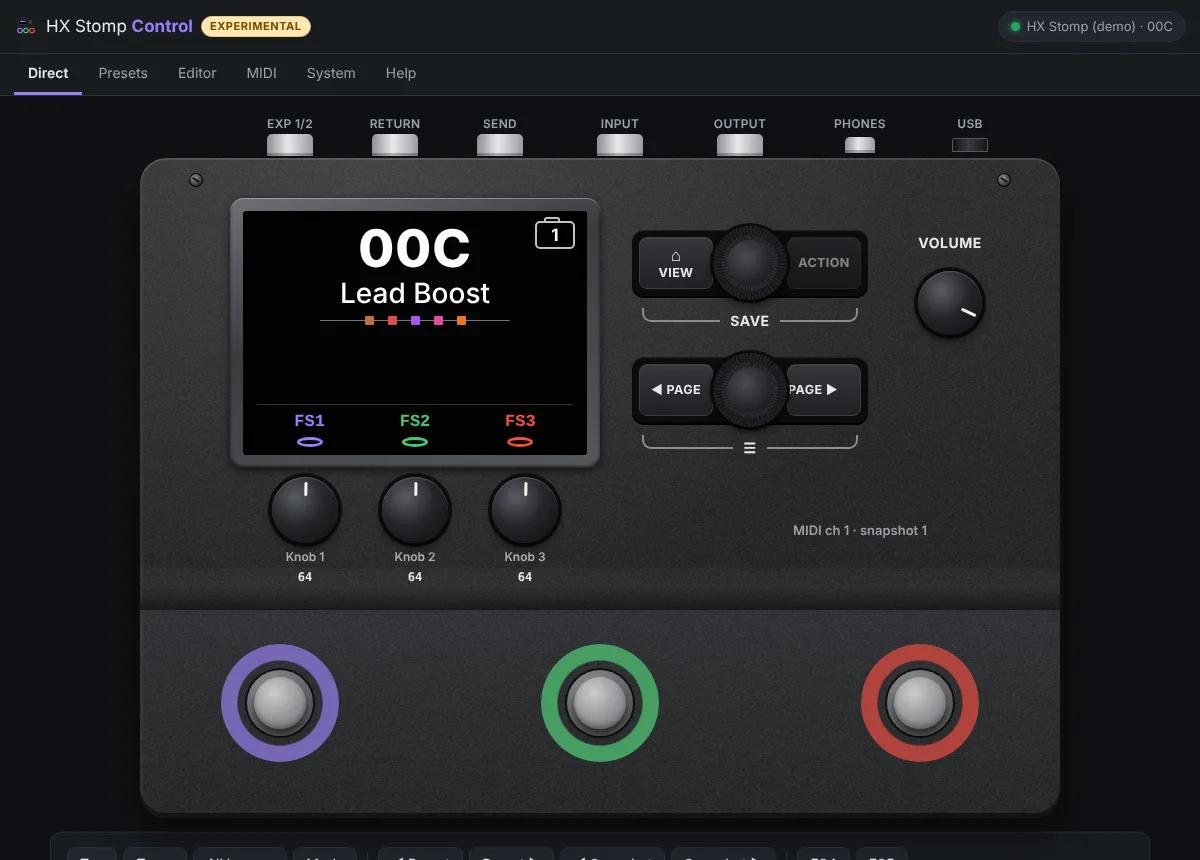
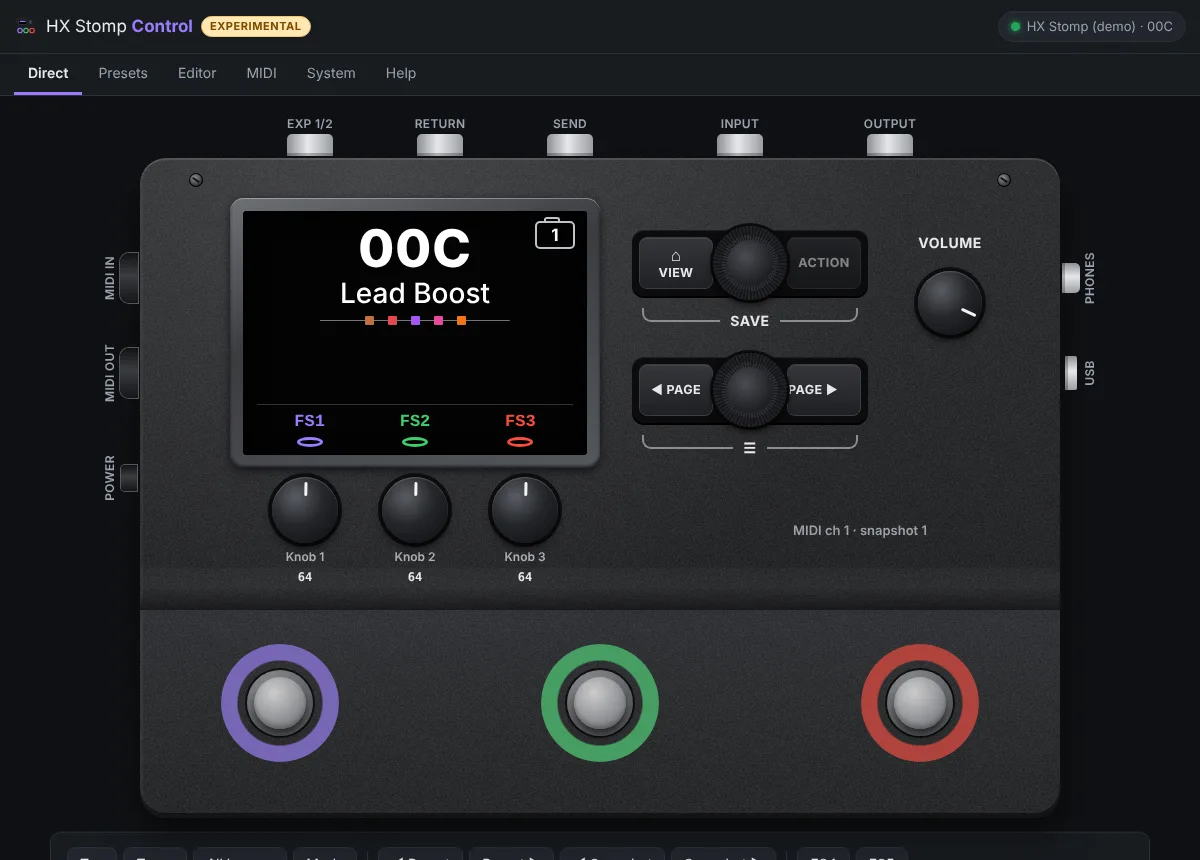
Direct mode: jacks on the sides of the pedal too (MIDI in/out, power, phones, USB)

diff --git a/web/css/style.css b/web/css/style.css
@@ -175,7 +175,7 @@ table.grid th { font-size: 12px; color: var(--muted); font-weight: 600; }
 .toast.out { opacity: 0; }
 
 /* ---------------------------------------------------------------- Direct: the pedal panel (920 × 660, scaled to fit) */
-.hxwrap { position: relative; width: 100%; max-width: 920px; margin: 0 auto 14px; }
+.hxwrap { position: relative; width: 100%; max-width: 1008px; margin: 0 auto 14px; }
 .hxpanel { position: absolute; left: 0; top: 0; width: 920px; height: 660px; transform-origin: top left; user-select: none; -webkit-user-select: none;
   border-radius: 26px; color: #e8e8ea; font-family: "Helvetica Neue", Arial, system-ui, sans-serif;
   background:
@@ -191,6 +191,12 @@ table.grid th { font-size: 12px; color: var(--muted); font-weight: 600; }
   background: linear-gradient(90deg, #8d9095, #e6e8eb 45%, #9a9da2); box-shadow: inset 0 -3px 0 rgba(0,0,0,.25); }
 .hxpanel .jack.mini { width: 30px; height: 16px; }
 .hxpanel .jack.usb { width: 34px; height: 12px; border-radius: 2px 2px 0 0; background: linear-gradient(90deg, #111214, #3a3c40 45%, #141517); box-shadow: 0 0 0 1px #55585e; }
+.hxpanel .jack.side { width: 22px; height: 46px; border-radius: 5px 0 0 5px; background: linear-gradient(180deg, #8d9095, #e6e8eb 45%, #9a9da2); box-shadow: inset 3px 0 0 rgba(0,0,0,.25); }
+.hxpanel .jack.din.side { height: 50px; width: 18px; border-radius: 9px 0 0 9px; background: linear-gradient(180deg, #111214, #3a3c40 45%, #141517); box-shadow: 0 0 0 1px #55585e; }
+.hxpanel .jack.dc.side { height: 26px; width: 16px; border-radius: 4px 0 0 4px; background: linear-gradient(180deg, #111214, #3a3c40 45%, #141517); box-shadow: 0 0 0 1px #55585e; }
+.hxpanel .jack.mini.side { height: 30px; width: 18px; border-radius: 0 5px 5px 0; }
+.hxpanel .jack.usb.side { height: 34px; width: 12px; border-radius: 0 2px 2px 0; }
+.hxpanel .jlabel.vert { transform: translate(-50%, -50%) rotate(-90deg); }
 .hxpanel .jlabel { font: 600 12px/1 system-ui, sans-serif; letter-spacing: .3px; color: var(--muted); white-space: nowrap; }
 .hxpanel .screw { width: 14px; height: 14px; border-radius: 50%; background: radial-gradient(circle at 40% 35%, #8a8d92, #2c2d31 70%); box-shadow: inset 0 0 0 1px #000; }
 .hxpanel .screw::after { content: ''; position: absolute; left: 3px; right: 3px; top: 6px; height: 2px; background: #111; transform: rotate(35deg); }

diff --git a/web/js/app.js b/web/js/app.js
@@ -231,8 +231,15 @@
     var lcd = h('div', { class: 'lcd' + (S.tuner ? ' tuner' : ''), id: 'lcd' });
     var panel = h('div', { class: 'hxpanel' + (conn ? '' : ' off') },
       // jacks along the top edge
-      [[150, 'EXP 1/2'], [255, 'RETURN'], [360, 'SEND'], [480, 'INPUT'], [600, 'OUTPUT'], [720, 'PHONES'], [830, 'USB']].map(function (j, i) {
-        return [at(j[0], -13, h('span', { class: i === 6 ? 'jack usb' : i === 5 ? 'jack mini' : 'jack' })), at(j[0], -34, h('span', { class: 'jlabel' }, j[1]))];
+      [[170, 'EXP 1/2'], [300, 'RETURN'], [430, 'SEND'], [600, 'INPUT'], [750, 'OUTPUT']].map(function (j) {
+        return [at(j[0], -13, h('span', { class: 'jack' })), at(j[0], -34, h('span', { class: 'jlabel' }, j[1]))];
+      }),
+      // jacks on the left and right sides
+      [[120, 'MIDI IN', 'jack din'], [215, 'MIDI OUT', 'jack din'], [320, 'POWER', 'jack dc']].map(function (j) {
+        return [at(-11, j[0], h('span', { class: j[2] + ' side' })), at(-30, j[0], h('span', { class: 'jlabel vert' }, j[1]))];
+      }),
+      [[120, 'PHONES', 'jack mini'], [215, 'USB', 'jack usb']].map(function (j) {
+        return [at(931, j[0], h('span', { class: j[2] + ' side' })), at(950, j[0], h('span', { class: 'jlabel vert' }, j[1]))];
       }),
       at(56, 22, h('span', { class: 'screw' })), at(864, 22, h('span', { class: 'screw' })),
       // the screen
@@ -347,8 +354,8 @@
     return k;
   }
   function fitPanel(wrap, panel) {
-    var W = 920, H = 660, TOP = 46;
-    var s = Math.min(1, (wrap.clientWidth || W) / W);
+    var W = 920, H = 660, TOP = 46, SIDE = 44;   // room for the jacks above and at the sides
+    var s = Math.min(1, (wrap.clientWidth || W) / (W + 2 * SIDE));
     panel.style.transform = 'scale(' + s + ')';
     panel.style.top = Math.round(TOP * s) + 'px';
     panel.style.left = Math.max(0, Math.round(((wrap.clientWidth || W) - W * s) / 2)) + 'px';
